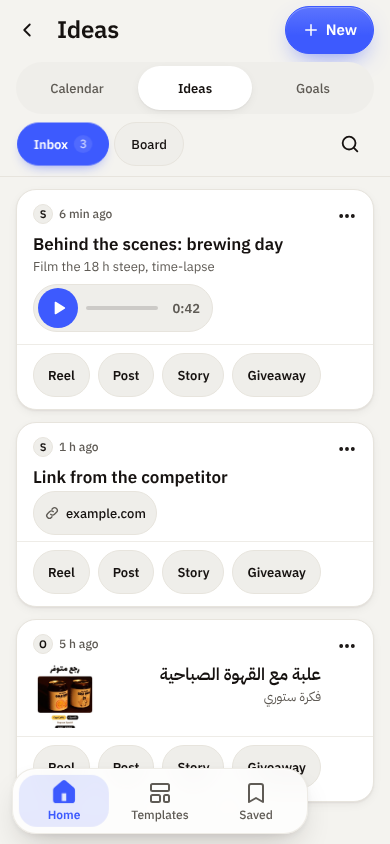
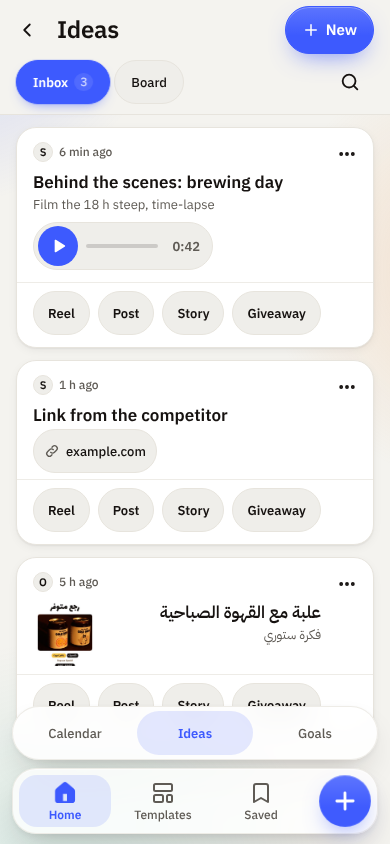
2.5.2: tests follow the new bar (+ inside, 48px) and the page colour on html; What's New shot; selected plan tab tinted; skill + taste notes
Claude-Session: https://claude.ai/code/session_01Y65H7WvsiftBMGVkA7A4Ec

diff --git a/assets/studio.css b/assets/studio.css
@@ -1630,3 +1630,4 @@ body.hub:not(.hub-first) #homeView :is(.tool-item,.sv-card,.tool-row){animation:
     background:color-mix(in srgb,var(--raised) 86%,transparent);backdrop-filter:blur(16px);-webkit-backdrop-filter:blur(16px);border:1px solid color-mix(in srgb,var(--line) 70%,transparent);box-shadow:var(--shadow-2)}
   body.on-plan .cal-view{padding-bottom:calc(var(--bar-h) + 140px + var(--safe-b))}
 }
+@media (max-width:820px){ body.on-plan .plan-tab[aria-current="page"]{background:color-mix(in srgb,var(--accent) 14%,transparent);color:var(--accent);box-shadow:none} }

diff --git a/.claude/skills/studio-improver/SKILL.md b/.claude/skills/studio-improver/SKILL.md
@@ -107,6 +107,7 @@ Everything else in this skill can be rewritten by the skill itself.
   - **What's New** (rebuilt by a builder): hero card for the newest version, older versions closed (blocks of five, one row per version), changes grouped New / Improved / Fixed (`type: improve` is new, `design` counts as Improved), one line per change that expands to the note, flag switches and shots, a 44px thumbnail when a change has a picture, `#v-<version>` deep links.
   - **Moving stories:** Auto runs when the sheet opens on a page with no motion (open + Save video).
   - **2.5.1 owner fixes (same day):** (1) Never compare a swapped element by `outerHTML` after adding a class to it (the fade class made every refresh "different": the Home Calendar row faded on each load = flicker); keep the source HTML in `data-h`. (2) Plan modules (`calendar.js`, `ideas.js`, `kpis.js`) keep their page when shown again and redraw after `load()` only when a data signature (`lastSig`) changed: a full `innerHTML` redraw on every visit was the "page refreshes" flash. (3) Owner rejected the sliding/resizing plan switch: the tab bar and page stay fixed, only the pill slides and content cross-fades (opacity only); `nav.top` is hidden on all three plan views (it was hidden on Calendar only, so the page jumped). Never animate whole-page translate between sibling tabs. (4) Entrance animations in the look preview run only on first open (`body.hub-first`), never when a hidden view is shown again (display:none → block restarts CSS animations). (5) Phone Back on a changed saved design: tool pages (`tool-leave`) and Create (`cr-leave`) hold one `NAV` entry while `designDirty()`; Back opens the app's leave prompt (re-armed when it closes), so the browser's "Leave site?" never shows. (6) Heavy work right after opening a sheet (Create Save drew every page thumbnail synchronously) kills the slide-in and swallows taps: draw after the animation, one per frame. Home's Ideas/Goals/+Idea are a 3-column grid (`.pc-t` two-line labels), never a scroller.
+  - **2.5.2 (owner: "you did not fix anything"):** first suspect a stale copy: GitHub Pages sends max-age=600, so `sw.js` network-first now fetches with `cache:'no-cache'` (navigations via `new Request(url,{cache:'no-cache'})`) and registers with `updateViaCache:'none'` + `update()`. The look is the default (`:root[data-look2]` rules became `:root`, flag removed). Plan tabs: no page animation at all (root VT `animation:none`), only the pill; on phones they are fixed at the bottom above the bar (`body.on-plan .plan-tabs`), selected = accent tint (white-on-white failed). Bottom bar spans edge to edge with the `.fab` (52px) inside its right end (`padding-inline-end:70px`); the + is shown on every hub view so the bar never changes size. The bar highlight is a JS two-phase "liquid" glide (`placePill`: stretch to cover both tabs, then the trailing edge catches up; never `--spring` on a bounded highlight). Leaving: `needAsk()` = changed saved design OR a new story with edits not yet saved as a picture (`draftUnsaved`, tool + Create); the draft prompt offers Save it now / Leave, keep the draft / Discard it (`draftDropped` stops a last draft write on the way out). Never run the full sweep while editing the tree: stop it first.
   - Process: 2 sonnet builders in their own worktrees (a test suite, the What's New page) while the lead did the engine work kept merges conflict-free; a builder that only adds a suite is the cheapest way to lock a bug fix.
 - **Model split:** CLAUDE.md asks for routine building to go to a `sonnet` subagent with a precise brief, and lookups/test runs to `haiku` (see **Testing → Who runs the tests**). Give a subagent files that nobody else is editing at the same time.
 

diff --git a/studio-notes/taste.md b/studio-notes/taste.md
@@ -119,4 +119,5 @@ Counts = separate versions or briefs where the issue was raised. "Exists" = alre
 - Live stock in Restock: not needed (archived). Moving stories and the Claude Design import: explain in plain words, keep only if useful.
 - What's New: hero card for the latest, older versions collapsed, New / Improved / Fixed with icons, one plain line per change.
 - 2.5.1 [S]: flicker on the Home Calendar row and when switching Plan tabs (redraws); a horizontally scrolling chip row is rejected ("make it fixed, no scrolling"); page-wide slide/resize between tabs rejected ("the bar fixed, the content fixed, no animation of resizing the entire page"); the browser's "Leave site?" on Back is wrong (wants the Update prompt); sheets must slide up and close on an outside tap. Checks: `ideas`/`calendar`/`kpis` (no-redraw), `home7-hub`, `nav`.
+- 2.5.2 [S]: page switchers within thumb reach (bottom), never at the top of a phone page; the bottom bar must stretch with no gap; a highlight must never overshoot its box (no spring on bounded movers); "make the new look the default"; Back must ask before losing work in EVERY tool, not only saved designs. Checks: `home7-hub` (+ inside the bar), `smoke`, `nav`.
 

diff --git a/studio-notes/changelog.md b/studio-notes/changelog.md
@@ -31,6 +31,7 @@ Switching between the three tabs no longer fades or moves the page: the content 
 ### Calendar, Ideas and Goals tabs under your thumb
 type: improve
 The Calendar · Ideas · Goals switch now sits at the bottom, right above the bar, so you can change pages with one thumb.
+![after](assets/whatsnew/2.5.2-bar-after.jpg)
 
 ### One bottom bar, a calmer highlight
 type: design
